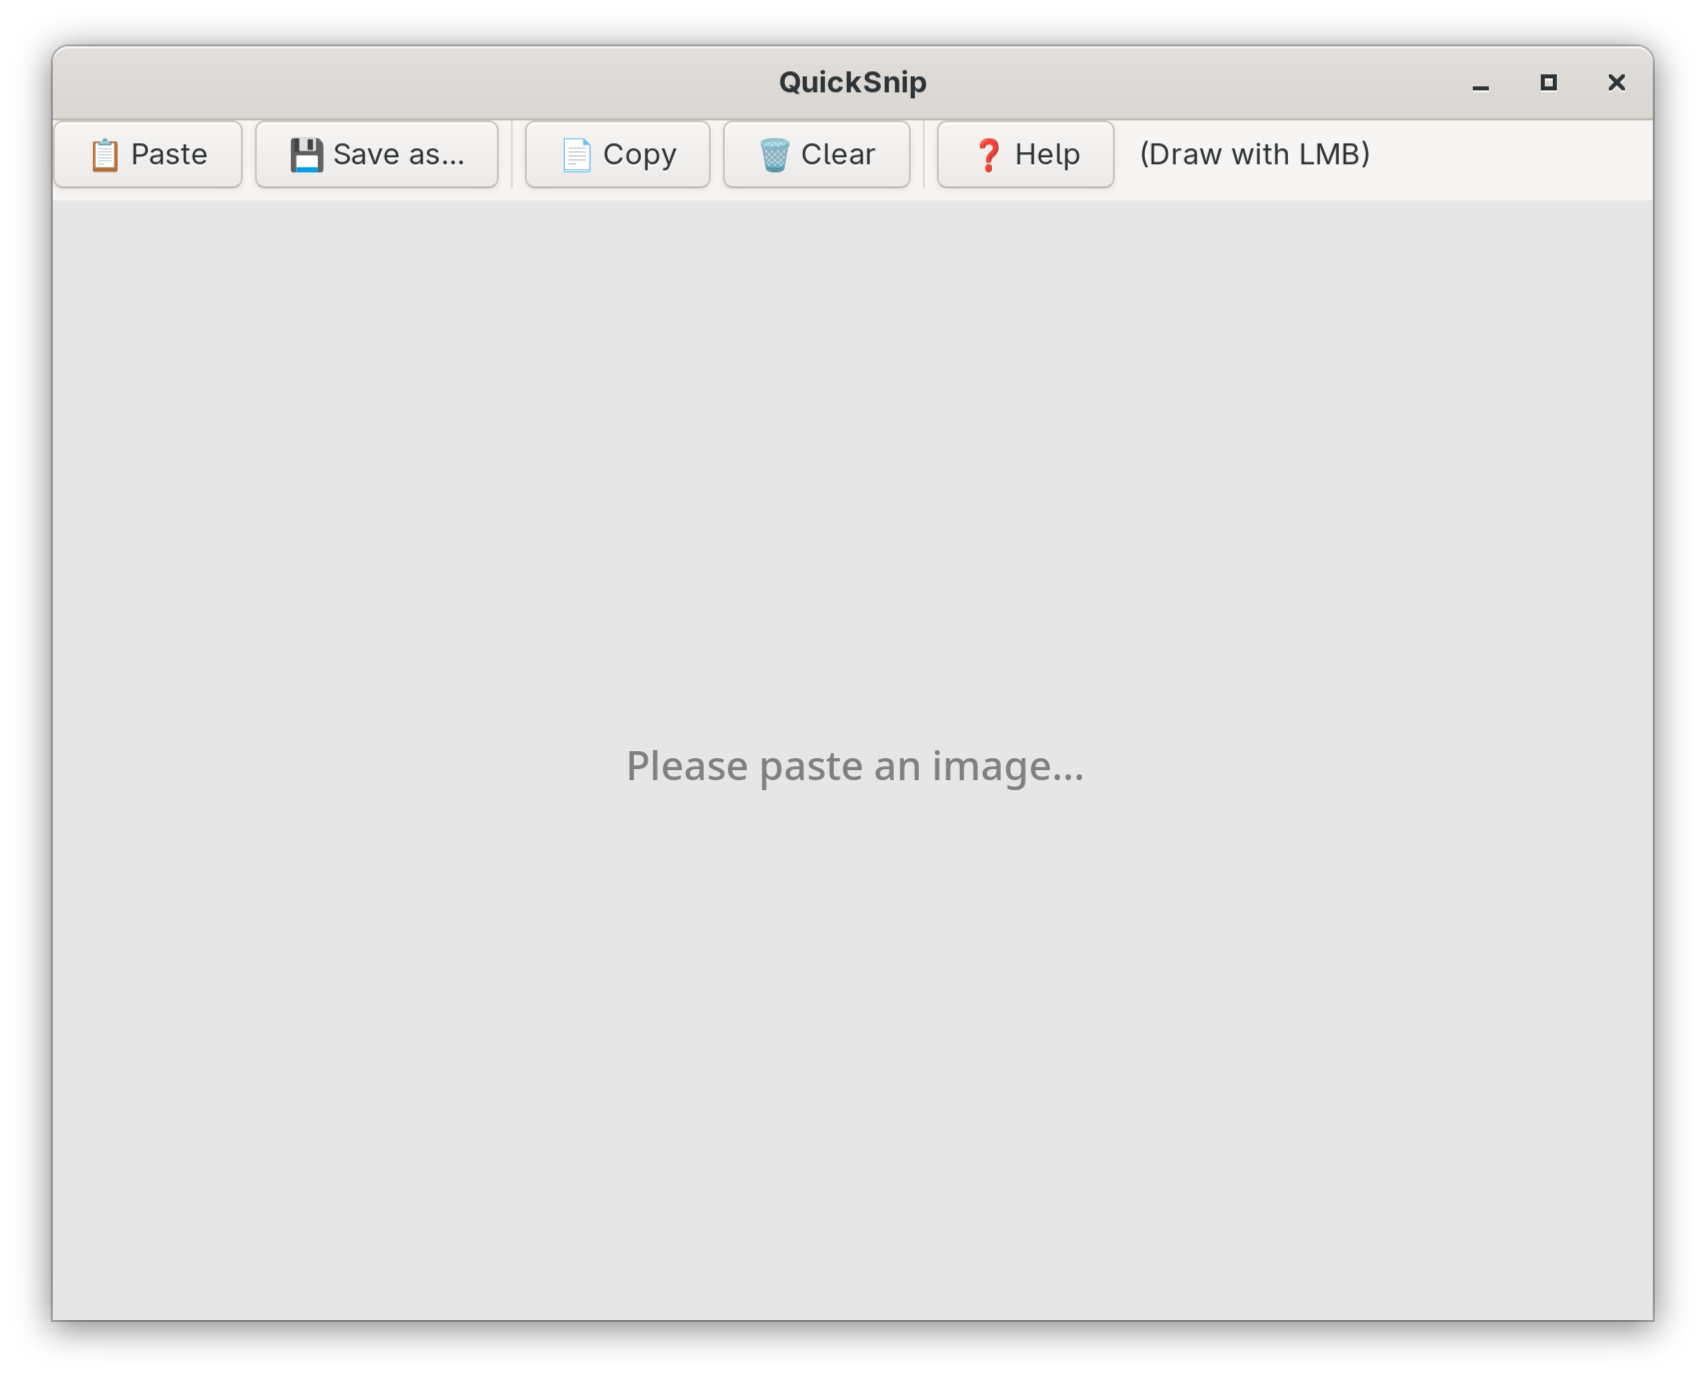
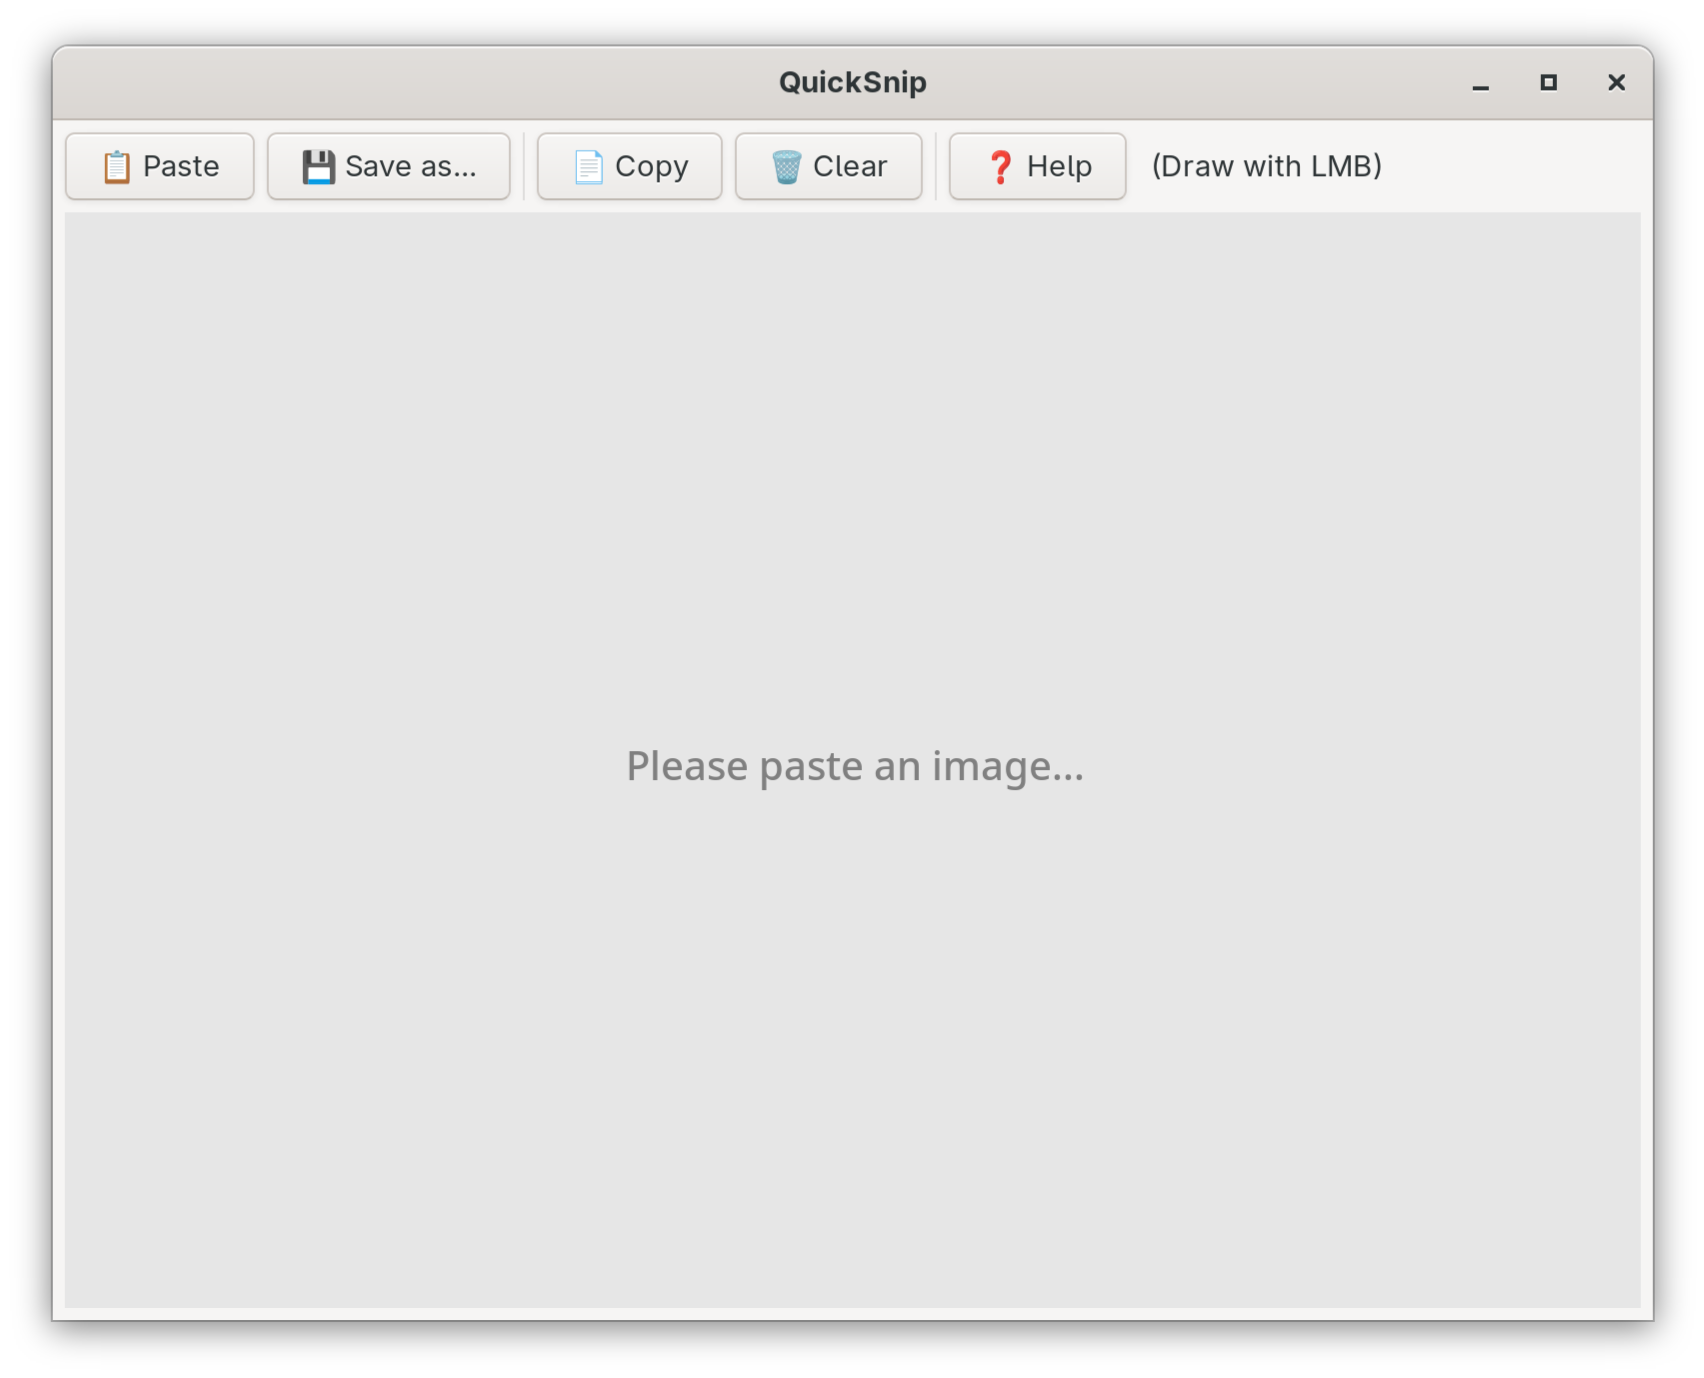
Update screenshot for v1.0.1

Changed region(s): [[0.0311, 0.0936, 0.8087, 0.156]]

diff --git a/quicksnip.py b/quicksnip.py
@@ -94,7 +94,9 @@ class PaintApp:
 
         vbox = Gtk.Box(orientation=Gtk.Orientation.VERTICAL, spacing=6)
         vbox.set_margin_top(6)
+        vbox.set_margin_bottom(6)
         vbox.set_margin_start(6)
+        vbox.set_margin_end(6)
         vbox.pack_start(hbox, False, False, 0)
         vbox.pack_start(self.scrolled_window, True, True, 0)
 
